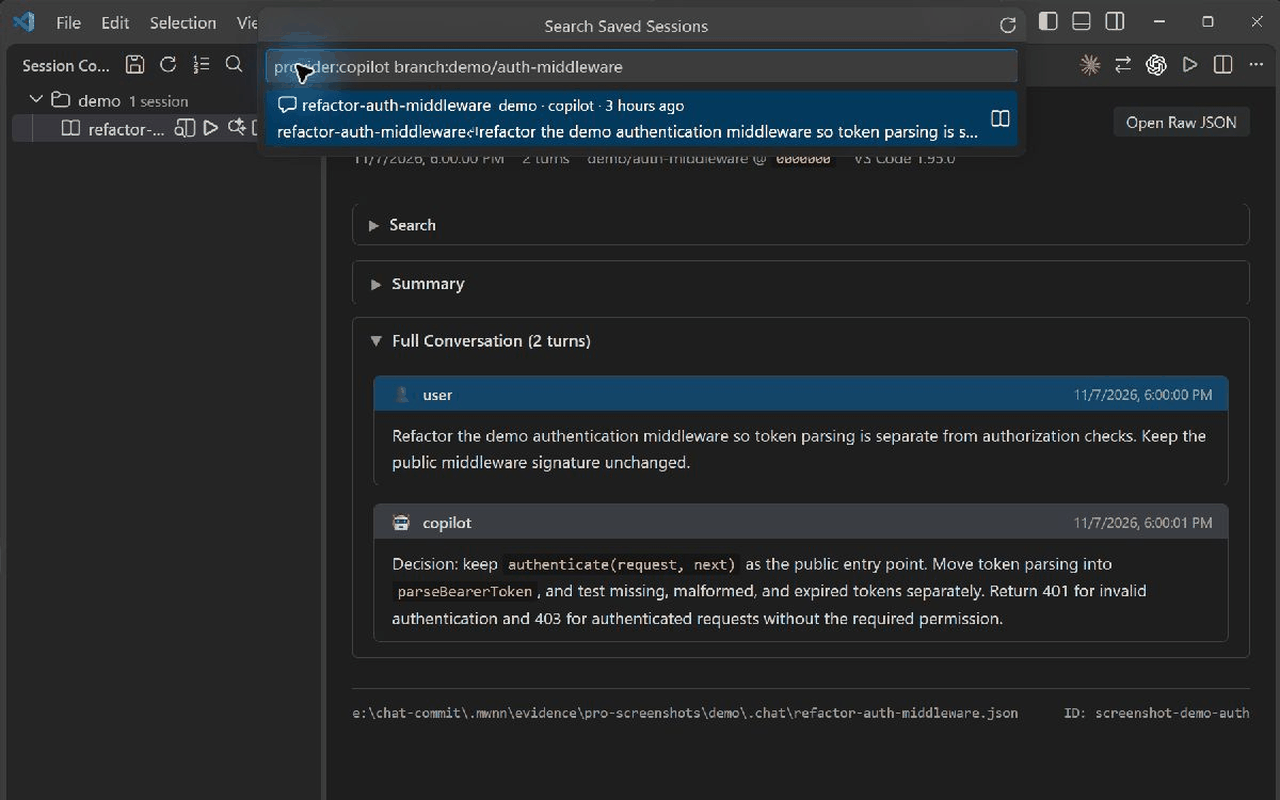
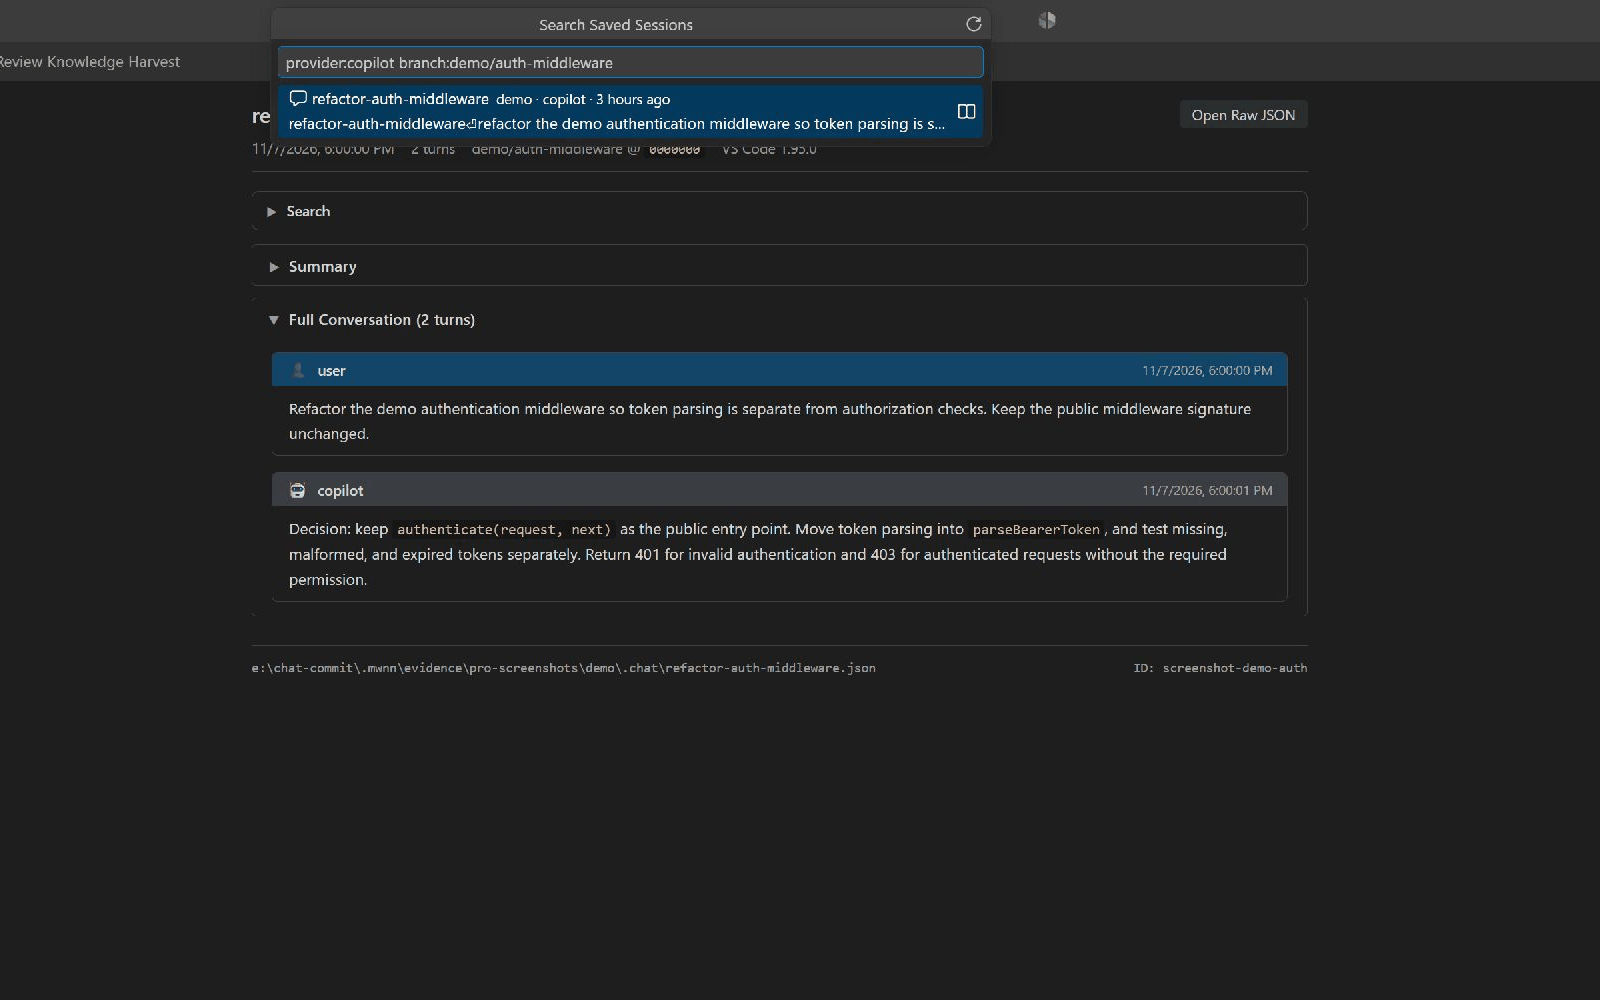
docs: complete Pro harvest and global search screenshots

diff --git a/media/screenshots/README.md b/media/screenshots/README.md
@@ -106,38 +106,39 @@ Cursor / Claude Code / Codex / Copilot should all be visible. Highlight Cursor o
    <https://marketplace.visualstudio.com/items?itemName=darrenjmcleod.session-control>.
 5. Sign off the Step 2 row in `wiki/open-vsx-listing.md` → §4 approval checklist.
 
-## Pro screenshot additions (capture in progress)
+## Pro screenshot additions (captured 2026-11-07)
 
-The original five-asset completion above does not include these Pro screenshots.
-Both additions use the same Dark+ theme, privacy checklist, and static-image cap
-of 400 KB. Target 1280×800, or 1600×1000 when the UI remains readable.
+Both Pro assets are captured from the installed Session Control extension in a
+clean demo workspace using Dark+, zoom level 1, and the synthetic source below.
+Both are 1600×1000 PNGs below the 400 KB static-image cap.
 
-| File | Required content | State |
-| :-- | :-- | :-- |
-| `harvest-preview.png` | Knowledge Harvest dry-run preview alongside the resulting `knowledge/` bundle in Explorer | Not captured |
-| `global-search.png` | Global Session Search quick pick with `provider:` and `branch:` filters visible and matching results | Captured candidate: 1280×800; final framing review pending |
+| File | Content | Dimensions | Size |
+| :-- | :-- | :-- | :-- |
+| `harvest-preview.png` | Knowledge Harvest pre-write review with the resulting `knowledge/` tree and generated decision file visible | 1600×1000 | 316,945 bytes |
+| `global-search.png` | Global Session Search with `provider:copilot branch:demo/auth-middleware` and its matching synthetic result | 1600×1000 | 135,139 bytes |
 
-For `harvest-preview.png`, use a clean demo session and show the actual preview
-with its proposed knowledge output. Expand the resulting bundle in Explorer.
-Do not apply a harvest to production knowledge just to stage the screenshot.
+The harvest image shows the real **Review Knowledge Harvest** screen before
+writing the repeat harvest. The visible bundle was generated by the first
+harvest of the same synthetic transcript. The repeat proposes two updates;
+those proposed changes were not written for this capture. This is the pre-write
+review, rather than the separate unlicensed Preview Knowledge Harvest command.
 
-For `global-search.png`, run **Search Saved Sessions (All Workspaces)** and enter
-filters that match the demo sessions, keeping both filter tokens visible.
-Use generic demo titles and exclude unrelated workspaces or private content.
-Inspect both final PNGs for legibility, dimensions, file size, and privacy before
-committing. The harvest filename remains planned until its PNG is captured.
+Both images were cropped from native window captures to keep the primary
+Session Control surface within the left two-thirds. The account/avatar bar,
+status bar, unrelated workspaces, secrets, email addresses, and OS usernames
+are excluded. PNG encoding uses a 256-color palette to meet the size cap;
+product UI and search results were not fabricated.
 
-The Global Search candidate was captured from the installed extension using the
-synthetic session below. The account/avatar bar and status bar are excluded.
-It retains the native centered quick pick; its right edge extends beyond the
-left-two-thirds safe area, so framing remains an open capture exception.
-The native window capture is cropped to 16:10, resized to 1280×800, and encoded
-as a 256-color PNG to stay below 400 KB. No product UI or results were fabricated.
+For a re-capture, run **Harvest This Session** on only the synthetic session,
+select the Copilot chat route, and capture the review before choosing Write
+changes. Expand `knowledge/` in Explorer. For search, run **Search Saved Sessions
+(All Workspaces)** and enter both filters shown above. Inspect the final PNGs
+for legibility, framing, dimensions, file size, and privacy before committing.
 
 ### Synthetic harvest source (approved 2026-11-07)
 
 Use a fictional session titled `refactor-auth-middleware`, with provider `copilot`
-and branch `demo/auth-middleware`. Its full proposed transcript is:
+and branch `demo/auth-middleware`. Its source transcript is:
 
 > User: Refactor the demo authentication middleware so token parsing is separate
 > from authorization checks. Keep the public middleware signature unchanged.
@@ -149,15 +150,17 @@ and branch `demo/auth-middleware`. Its full proposed transcript is:
 
 This is staged example content, not evidence of implementation or a real user
 session. The owner approved sending only this synthetic transcript to GitHub Copilot
-through Knowledge Harvest in the coworking chat on 2026-11-07.
+through Knowledge Harvest in the coworking chat on 2026-11-07, and explicitly
+approved the repeat harvest for capturing the preview on the same date.
 
 ## Files currently present in this folder
 
-All five image assets are checked in alongside this brief: `demo.gif` (~2.4 MB),
+The original five image assets are checked in alongside this brief: `demo.gif` (~2.4 MB),
 `save-session.png`, `resume-session.png`, `session-explorer.png`, and `provider-picker.png`
 (each well under the 400 KB static-image target). They are referenced from the top-level
 `README.md` `## Screenshots` section and render on the Open VSX and VS Marketplace listing
 pages as of v1.3.4.
 
-The additional `global-search.png` candidate (1280×800, 186,178 bytes) is present.
-Its framing review is still open; `harvest-preview.png` is not yet present.
+The two additional Pro images, `harvest-preview.png` and `global-search.png`,
+are present and listed above. Adding them to a public listing or publishing a
+release is a separate task.
